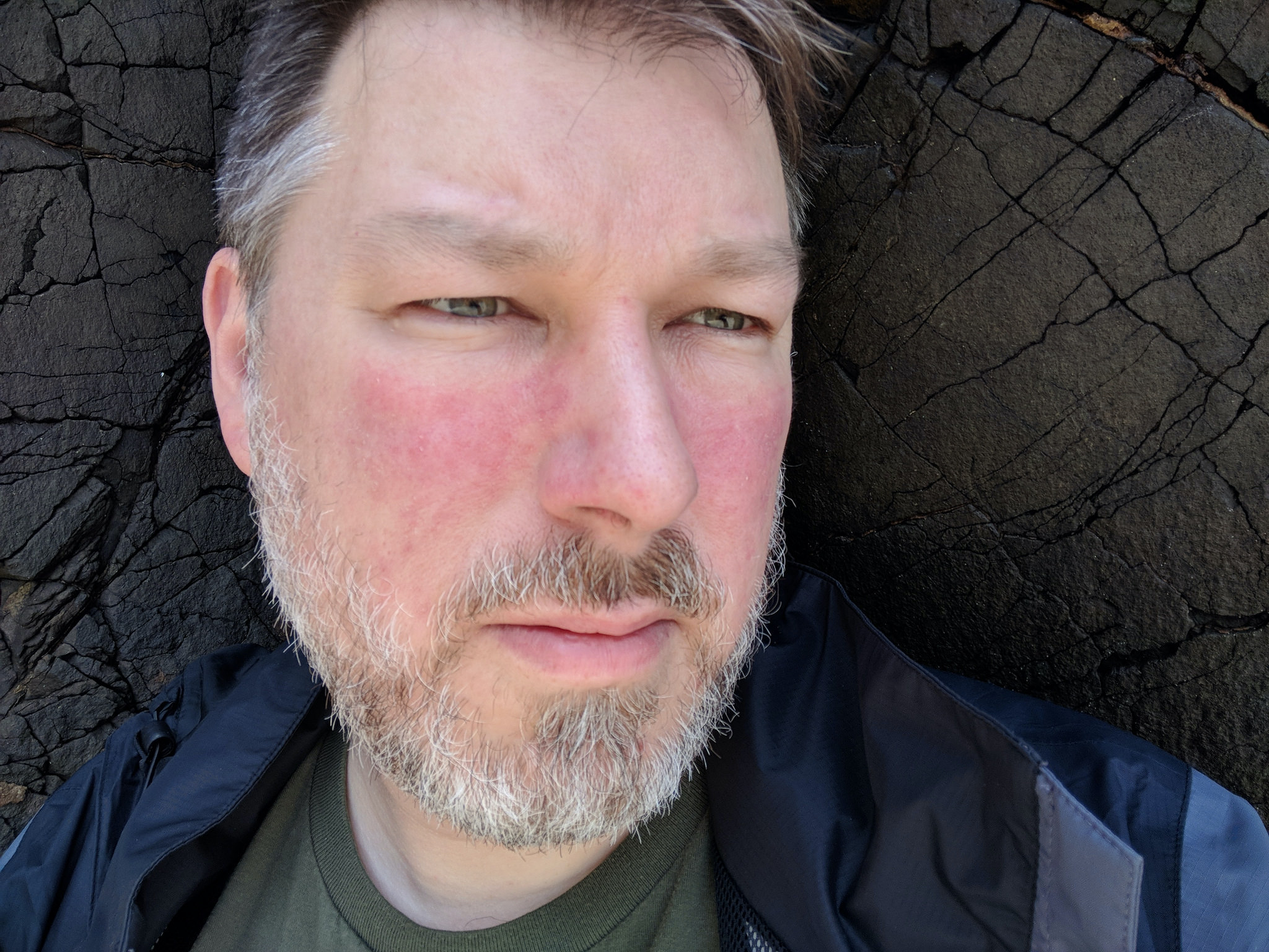
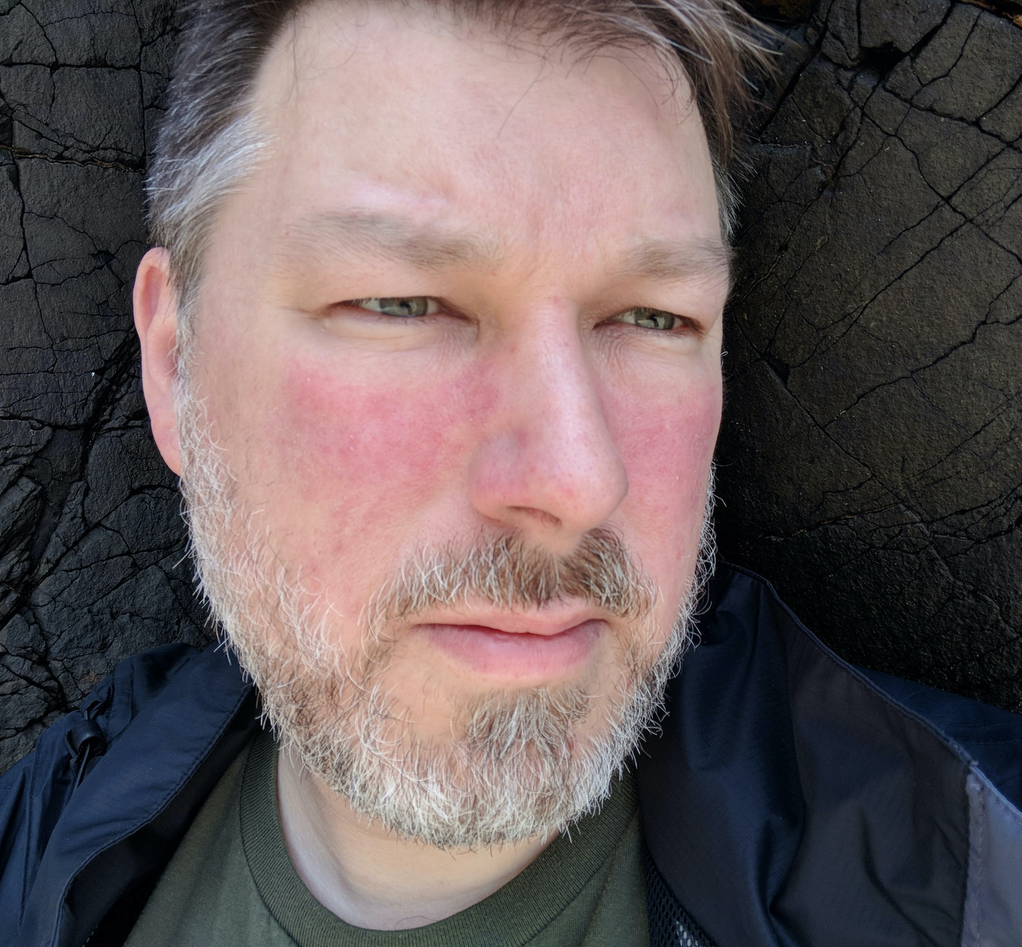
Updated styling, new images

diff --git a/src/pages/index.js b/src/pages/index.js
@@ -21,14 +21,19 @@ const IndexPage = () => (
 
         <div className="item">
           <p>
-            Glenn is a software developer specializing in web development who’s worked with 
+            Glenn is a front end web developer who’s worked with 
             big companies like Oracle and DSV as well as small to mid-size startups and agencies.  
-            He often has to adapt and learn new technologies on the fly, with a particular focus 
-            on finding out what will serve both the client and end user.  At Ricochet, he wrote a 
-            SCORM Bridge, allowing the sale of a developed set of courseware to the client when 
-            the existing protocols didn’t match.  At ARM Insight, he implemented Google Analytics 
-            tracking in the reward website.  He’s been instrumental in developing or maintaining 
-            many websites, large and small.          
+            He has been instrumental in 
+            developing and maintaining many websites, large and small.
+            He is proficient at learning new tech on the fly and 
+            finding out what will serve both the client and end user.  
+          </p>
+          <p>
+            Just some examples of what he's accomplished include: A JavaScript wrapper 
+            that allowed the sale of a developed set of courseware to the client when 
+            the existing protocols didn’t match the end client's Learning Management System.  
+            At ARM Insight, he implemented Google Analytics 
+            tracking in the micro-reward website, allowing more detailed analysis of user flow.  
           </p>          
         </div>
       </section>
@@ -40,7 +45,7 @@ const IndexPage = () => (
         <p className="button">
           <a href="http://portfolio.aenigma.com/" 
             target="_blank" rel="noopener noreferrer"
-            class="btn">Go To Portfolio</a>
+            className="btn">Go To Portfolio</a>
         </p>
 
         <p>

diff --git a/src/css/header.css b/src/css/header.css
@@ -1,17 +1,23 @@
 header {
     background-color: #00203b;
-    margin-bottom: 1.45rem;
+    margin: 0 auto 1.45rem;
+    position: fixed;
+    top: 0;
+    left: 0;
+    width: 100%;
+    width: 100vw;
+    z-index: 1000;
 }
 
 header .page-wide {
     margin: 0 auto;
-    padding: 0.3em 0;
+    padding: 0;
 }
 
 header h1 {
     font-family: 'Merriweather', sans-serif;
     letter-spacing: 0.05em;
-    margin: 0.1em 0 0.1em;
+    margin: 0.4em 0 0.1em;
 }
 
 header a {
@@ -19,26 +25,51 @@ header a {
     text-decoration: none;
 }
 
-header .navLinks {
+header nav {
     margin: 0;
+    padding: 0;
     color: #edf2f4;
     text-align: right;
-    padding: 0;
+    display: flex;
+    flex-direction: row-reverse;
 }
 
-header .navLinks a {
-    margin: 0 0 0.1em;
-    padding: 0 0.3em 0.01em;
-    /* border-bottom: #005fb1 4px solid; */
+header nav a {
+    margin: 0;
+    padding: 0.6em 1.3em;
+    border: 1px rgba(0,32,59, 0.4) solid;
+    border-bottom: none;
+    transition: all 0.25s ease-in-out;
+    background-color: rgba(237, 242, 244, 0.4);
+    color: #00203b;
+    display: inline-flex;
 }
 
-header .navLinks a[aria-current="page"] {
-    /* border-bottom: #edf2f4 4px solid; */
-    text-decoration: underline;
-    /* text-shadow: 0 0 8px #edf2f4; */
+header nav a + a {
+    border-left: none;
 }
 
-header .navLinks a:hover {
-    /* border-bottom: #6791a2 4px solid; */
-    color: #edf2f4;    
+header nav a[aria-current="page"] {
+    background-color: rgba(237, 242, 244, 0.6);
+    color: #00203b;
+}
+
+header nav a:hover {
+    background-color: rgba(237, 242, 244, 0.9);
+    color: #00203b;
+}
+
+
+
+/* ============================================================== *\
+ *
+ * Mobile
+ *
+\* ============================================================== */
+
+@media only screen and (max-width: 480px) {
+
+    header h1 {
+        margin: 0.4em 0.8em 0.6em;
+    }
 }

diff --git a/src/css/resume.css b/src/css/resume.css
@@ -6,6 +6,7 @@
 
 #resume {
 	font-family: Jura, Arial, Verdana, sans-serif;
+	padding: 1em 1em 4em;
 }
 
 #resume a:link {
@@ -27,7 +28,6 @@
 	margin: 0.3em 0 0.1em 0;
 	font-size: 2.1em;
 	letter-spacing: 0.12rem;
-	/* font-family: 'Merriweather', 'Times New Roman', Times, serif; */
 }
 
 #my-info p {
@@ -38,7 +38,6 @@
 
 #my-info {
 	text-align: right;
-	width: 96%;
 	margin: 0 auto;
 }
 
@@ -90,7 +89,6 @@
 
 section {
 	text-align: left;
-	width: 90%;
 	margin: 1.5em auto 2.5em;
 }
 
@@ -110,6 +108,14 @@ section > ul {
 	margin-top: 0.4em;
 }
 
+#technologies li strong {
+	display: inline;
+}
+
+#technologies li strong:after {
+    content: ': ';
+}
+
 section > .job {
 	margin: 0 0 2em;
 }
@@ -122,11 +128,12 @@ section > .job {
 
 .job .info .company {
 	margin: 0 0 0.2em;
-	font-size: 140%;
+	font-size: 130%;
 	font-weight: bold;
 	letter-spacing: 0.2em;
 	color: #00203b;
 	line-height: 1.2;
+	text-transform: uppercase;
 }
 
 /* Position title and date(s) */
@@ -199,7 +206,7 @@ section#note > h2 {
 @media only screen and (max-width: 480px) {
 	#my-info {
 		text-align: center;
-		margin: 0 auto 1.5em;
+		margin: 0 auto 2.5em;
 		padding: 0;
 		font-size: 125%;
 		line-height: 1.3;
@@ -213,15 +220,23 @@ section#note > h2 {
 		content: "";
 		margin-right: 0;
 	}
+
+	#technologies li strong {
+		display: block;
+	}
+
+	#technologies li strong:after {
+		content: '';
+	}
 	
 	section {
 		text-align: left;
 		width: 94%;
 		margin: 1.5em auto 2.5em;
 	}
-	
+
 	section > h2 {
-		font-size: 1.8rem;
+		font-size: 1.4rem;
 	}
 	
 	#resources {

diff --git a/src/components/layout.css b/src/components/layout.css
@@ -634,19 +634,27 @@ pre tt:after {
   }
 }
 
-/* GBP */
+/* ============================================================== *\
+ *
+ * Glenn Styles
+ *
+\* ============================================================== */
 
 .page-wide {
-  width: 90%;
-  max-width: 960px;
+  width: 100%;
+  max-width: 860px;
 }
 
 .page-layout {
-  margin: 0 auto;
+  margin: 8em auto 5em;
 }
 
 main {
-  margin: 2em auto 4em;
+  margin: 0;
+}
+
+main ul {
+  list-style: circle;  
 }
 
 main a {
@@ -822,11 +830,15 @@ Light Grey: #edf2f4	(237,242,244) */
 \* ============================================================== */
 
 @media only screen and (max-width: 480px) {
-	header .navLinks {
-    font-size: 1.4rem;
-    padding: 0.3em 0.1em;
+
+  .page-layout {
+    margin: 7.6em auto 2em;
   }
-  
+
+  header h1 {
+    margin: 0.5em 0 2.5em;
+  }
+
   .mobile-block {
     display: block;
   }

diff --git a/src/css/about.css b/src/css/about.css
@@ -1,6 +1,3 @@
-/* .container {
-    background-color: red;
-} */
 
 #about section {
     display: flex;
@@ -17,11 +14,31 @@
 }
 
 .self-portrait img {
-    /* border-radius: 10%; */
-    filter: grayscale(70%);
+    border-radius: 10%;
+    filter: grayscale(10%);
     transition: all 1s ease-out;
 }
 
 .self-portrait img:hover {
     filter: grayscale(10%);
+}
+
+
+/* ============================================================== *\
+ *
+ * Mobile
+ *
+\* ============================================================== */
+
+@media only screen and (max-width: 480px) {
+
+    #about section {
+        display: block;
+    }
+    
+    .self-portrait {
+        min-width: 200px;
+        width: 90%;
+        margin: 0 auto 1.45rem;
+    }
 }

diff --git a/src/pages/resume.js b/src/pages/resume.js
@@ -28,17 +28,17 @@ const Resume = () => (
 
 				<ul>
 					<li>
-						<strong>Languages and libraries</strong>: 
+						<strong>Languages and libraries</strong>
 						HTML5, CSS3 (Responsive Design, Media Queries), SASS, JavaScript 
 						(including jQuery, Vue, React, Angular, Knockout, Greensock, 
 						Handlebars, et al), PHP, SQL
 					</li>
 					<li>
-						<strong>Platforms</strong>:
+						<strong>Platforms</strong>
 						Macintosh, Windows, Unix / Linux
 					</li>
 					<li>
-						<strong>Tools and Protocols</strong>:
+						<strong>Tools and Protocols</strong>
 						VS Code, Visual Studio, 
 						Jira/Atlassian Suite, Webpack, Snowflake, 
 						mySQL, SQL Server, 

diff --git a/src/components/imageGlenn.js b/src/components/imageGlenn.js
@@ -13,10 +13,16 @@ import Img from "gatsby-image"
  * - `useStaticQuery`: https://www.gatsbyjs.org/docs/use-static-query/
  */
 
+ // 2017_lan-su-glenn.jpg
+ // 2018-06-18_Coast_Glenn-crop-wide.jpg
+ // 2012_me_kauai_beach-crop.jpg
+ // 2017-08-21_eclise-shadows.jpg
+ // 2016-10-04_me_with_hoe-crop.jpg
+
 const ImageGlenn = () => {
   const data = useStaticQuery(graphql`
     query {
-      placeholderImage: file(relativePath: { eq: "2018-06-18_Coast_Glenn-crop.jpg" }) {
+      placeholderImage: file(relativePath: { eq: "2016-10-04_me_with_hoe-crop.jpg" }) {
         childImageSharp {
           fluid(maxWidth: 300) {
             ...GatsbyImageSharpFluid

diff --git a/src/components/header.js b/src/components/header.js
@@ -14,7 +14,7 @@ const Header = ({ siteTitle }) => (
           {siteTitle}
         </Link>
       </h1>
-      <div className="navLinks">
+      <nav>
         {/* <Link
           to="/portfolio"
         >
@@ -24,14 +24,14 @@ const Header = ({ siteTitle }) => (
           to="/"
         >
           About
-        </Link> | 
+        </Link>
         <Link
           to="/resume"
         >
           R&eacute;sum&eacute;
         </Link> 
         {/* <a href="http://portfolio.aenigma.com/" target="_blank" rel="noreferrer">Portfolio</a>  */}
-      </div>
+      </nav>
     </div>
   </header>
 )

diff --git a/src/components/layout.js b/src/components/layout.js
@@ -9,8 +9,8 @@ import React from "react"
 import PropTypes from "prop-types"
 import { useStaticQuery, graphql } from "gatsby"
 
-import Header from "./header"
 import "./layout.css"
+import Header from "./header"
 
 const Layout = ({ children }) => {
   const data = useStaticQuery(graphql`
